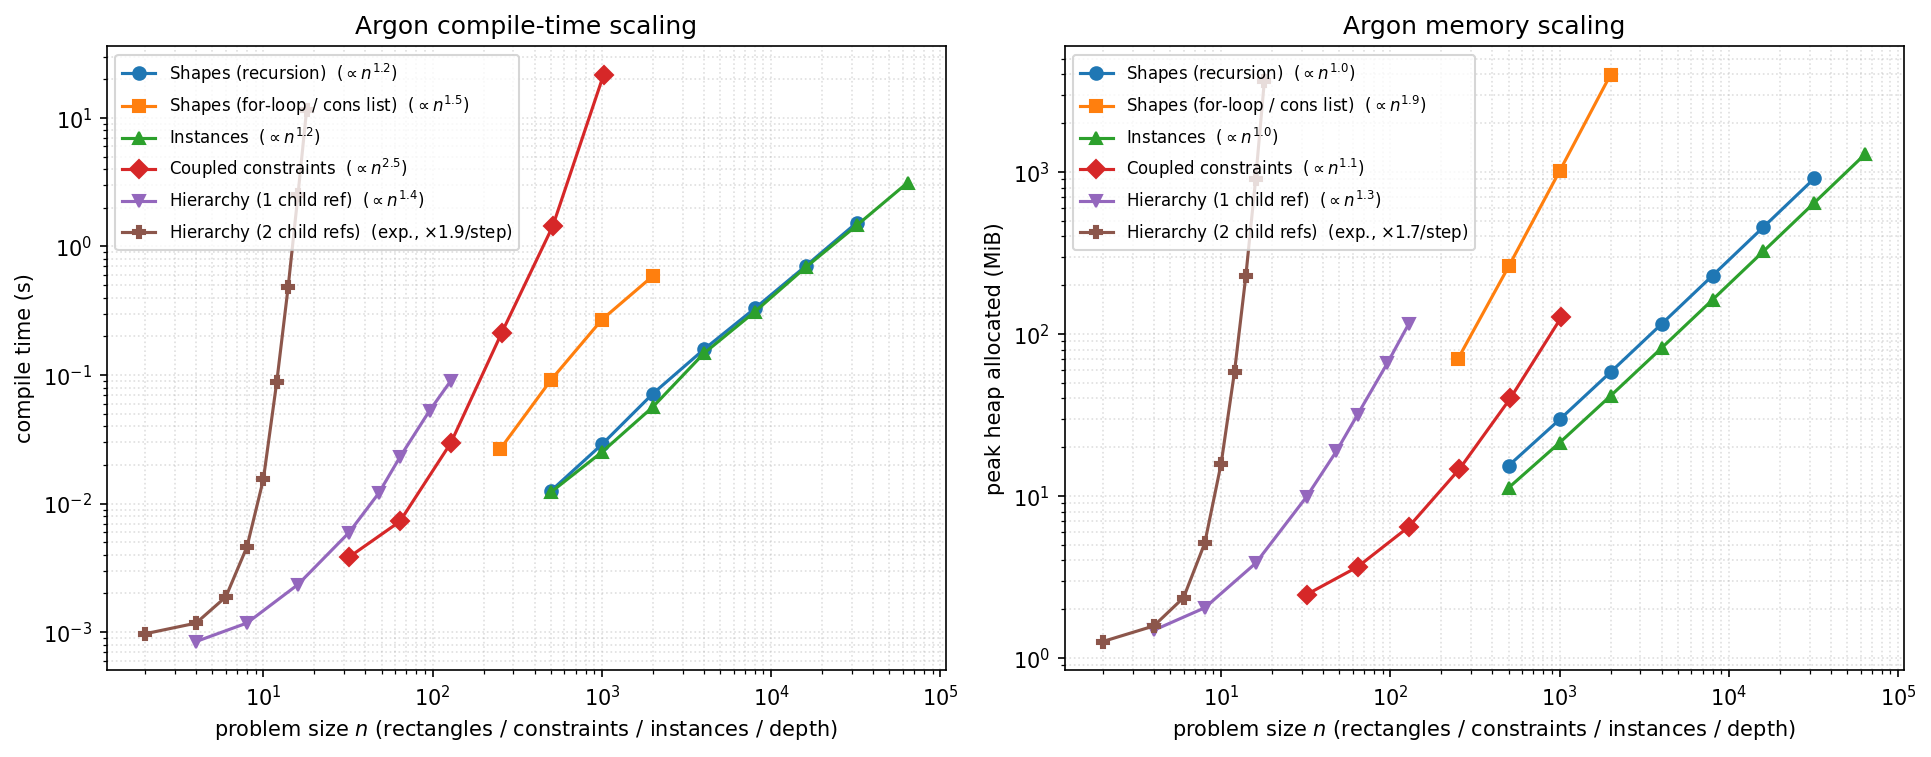
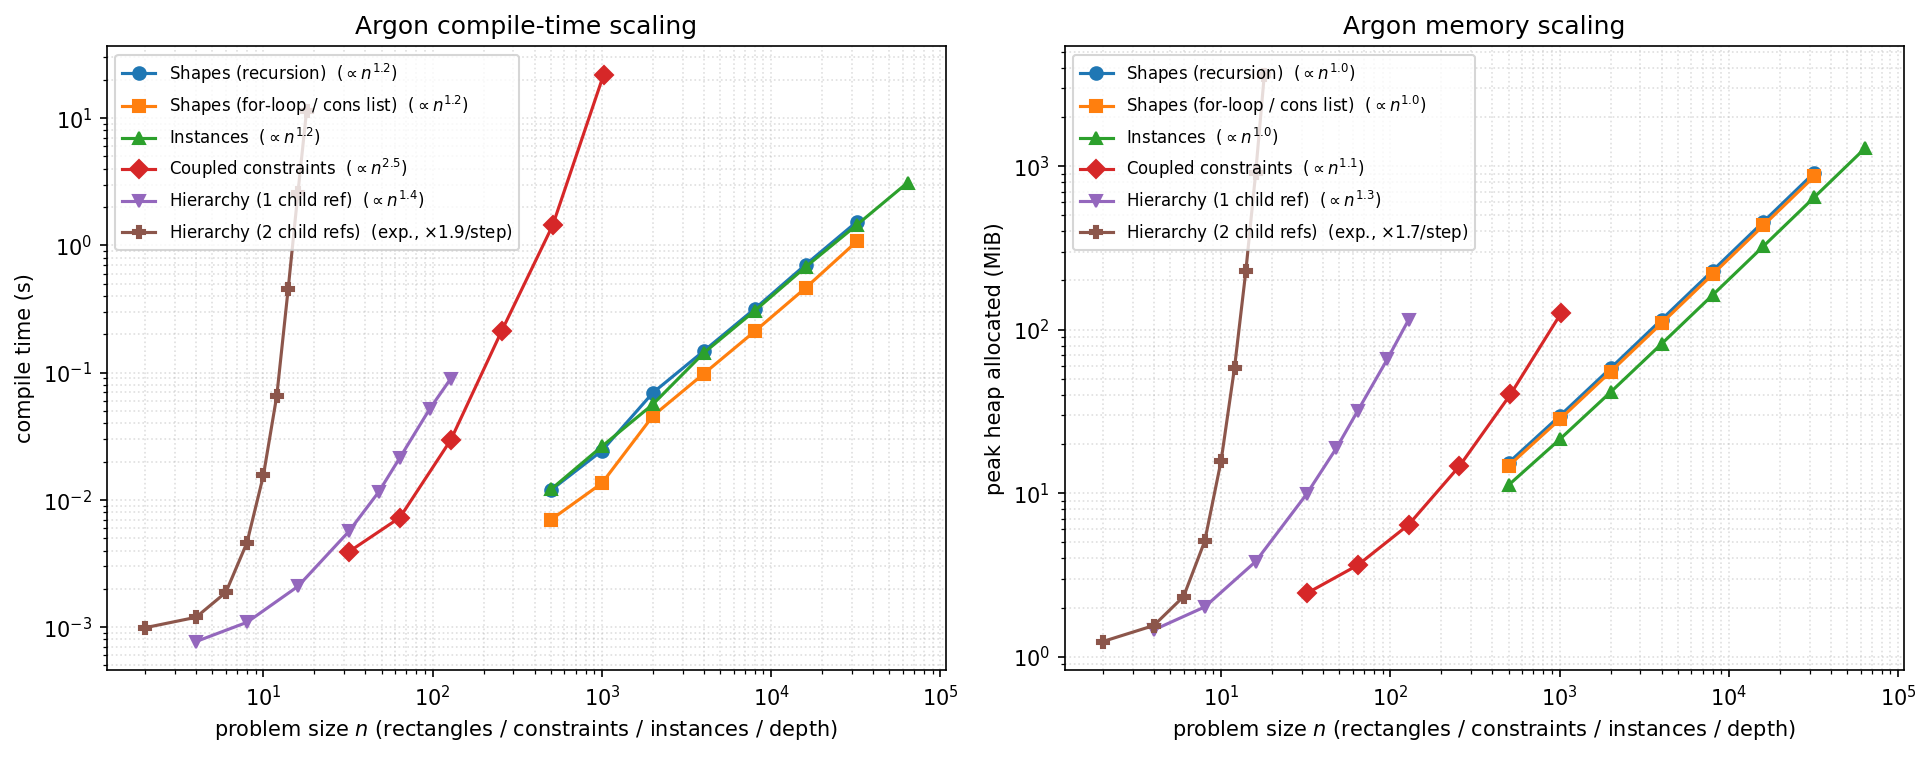
rerun benches

diff --git a/core/compiler/src/lib.rs b/core/compiler/src/lib.rs
@@ -327,8 +327,9 @@ mod tests {
 
     /// Axis 1b: the same geometry generated with an idiomatic `for` loop over
     /// `std::range`, which additionally exercises Argon's functional list
-    /// representation (`cons`). Capped at a smaller size because list
-    /// construction is super-linear.
+    /// representation. Since sequences are backed by a persistent vector and
+    /// `range` lowers to a native builtin, this path is linear and is swept to
+    /// the same sizes as `bench_shapes` so the two can be compared directly.
     #[test]
     #[ignore = "scaling benchmark; run in release, serially: cargo test -p compiler --release -- --ignored --test-threads=1 bench_"]
     fn bench_shapes_loop() {
@@ -338,13 +339,15 @@ mod tests {
         let ast = o.ast();
         // This variant generates the same geometry as `bench_shapes` but with a
         // `for` loop over `std::range`, so its cost also includes building and
-        // iterating the list. The default sweep is kept smaller than
-        // `bench_shapes` only so the default run stays bounded in memory on the
-        // current build; override `ARGON_BENCH_SHAPES_LOOP` to sweep to the same
-        // sizes as `bench_shapes` (e.g. to compare the two after changes to the
-        // list representation).
+        // iterating the list. That list/`range` path is now linear (persistent-
+        // vector sequences + a native `range` builtin), so it sweeps to the same
+        // sizes as `bench_shapes` and the two series can be compared directly
+        // (override `ARGON_BENCH_SHAPES_LOOP` to change the range).
         let mut rows = Vec::new();
-        for &n in &bench_sizes("ARGON_BENCH_SHAPES_LOOP", &[250, 500, 1000, 2000]) {
+        for &n in &bench_sizes(
+            "ARGON_BENCH_SHAPES_LOOP",
+            &[500, 1000, 2000, 4000, 8000, 16000, 32000],
+        ) {
             let (dt, mem, out) = measure(2, || {
                 compile(
                     &ast,

diff --git a/bench/README.md b/bench/README.md
@@ -65,7 +65,7 @@ how an axis scales — without editing any source. Pass a comma-separated list:
 | Env var | Axis | Default |
 | ------- | ---- | ------- |
 | `ARGON_BENCH_SHAPES`        | shapes (recursion)   | `500,1000,2000,4000,8000,16000,32000` |
-| `ARGON_BENCH_SHAPES_LOOP`   | shapes (`for` loop)  | `250,500,1000,2000` |
+| `ARGON_BENCH_SHAPES_LOOP`   | shapes (`for` loop)  | `500,1000,2000,4000,8000,16000,32000` |
 | `ARGON_BENCH_INSTANCES`     | instances            | `500,…,64000` |
 | `ARGON_BENCH_CONSTRAINTS`   | coupled constraints  | `32,64,128,256,512,1024` |
 | `ARGON_BENCH_HIER_SINGLE`   | hierarchy (1 ref)    | `4,8,16,32,48,64,96,128` |
@@ -104,7 +104,7 @@ parameter; "peak" is peak heap allocated during compilation.
 | Instances                    | 64 000 insts   | 3.14 s  | 1.29 GiB | **~linear** (time `∝ n^1.2`, mem `∝ n^1.0`) |
 | Hierarchy, 1 child ref       | depth 128      | 0.09 s  | 0.12 GiB | **polynomial** (`∝ depth^1.3–1.4`) |
 | Coupled constraints          | 1 024 rects    | 21.7 s  | 0.13 GiB | **super-cubic in time** (see below) |
-| Shapes (`for`-loop)          | 2 000 rects    | 0.59 s  | 4.1 GiB  | **quadratic** (mem `∝ n^2`) |
+| Shapes (`for`-loop)          | 32 000 rects   | 1.07 s  | 0.85 GiB | **~linear** (time `∝ n^1.2`, mem `∝ n^1.0`) |
 | Hierarchy, 2 child refs      | depth 18       | 11.5 s  | 3.6 GiB  | **exponential** (`×1.9` per level) |
 
 ### Interpretation
@@ -141,15 +141,19 @@ parameter; "peak" is peak heap allocated during compilation.
   capped). Very deep hierarchies additionally hit a native-recursion stack
   limit in the compiler at a few hundred levels.
 
-- **Recursion vs. iteration measures the list/iteration machinery.** `shapes`
-  and `shapes_loop` emit identical geometry; the only difference is that
-  `shapes_loop` builds and iterates a `std::range` list. On the build measured
-  here that list path is markedly heavier (≈4 GiB to emit 2 000 rectangles via
-  a `for` loop, vs. 32 000 by recursion in under 1 GiB), so the gap between the
-  two series is a direct measure of the cost of the list representation rather
-  than of the geometry or solver. Re-running both series (e.g. with
-  `ARGON_BENCH_SHAPES_LOOP` set to the same sizes as `bench_shapes`) is the way
-  to see that cost change as the iteration/list machinery is optimized.
+- **Recursion and iteration now scale identically.** `shapes` and `shapes_loop`
+  emit identical geometry; the only difference is that `shapes_loop` builds and
+  iterates a `std::range` list. That list path used to be quadratic — emitting
+  just 2 000 rectangles through a `for` loop cost ≈4 GiB (against 32 000 by
+  recursion in under 1 GiB), because `range` was built by repeated `cons` onto a
+  `Vec` (an O(n) clone-and-prepend per element). Backing sequences with a
+  persistent vector and lowering `range` to a native builtin made `cons`
+  O(log n) and `range` O(n); the two series now coincide, both linear in time
+  and memory out to 32 000 rectangles (`shapes_loop`: 1.07 s / 0.85 GiB;
+  `shapes`: 1.53 s / 0.89 GiB). The idiomatic `for i in std::range(n)` loop is
+  no longer a scaling hazard. The gap between the two series is now a small
+  constant — `shapes_loop` is even marginally faster, as the native `range`
+  avoids the per-element recursion overhead of `emit_shapes`.
 
 The takeaways for the paper: editable-object count and instance count scale
 linearly; the practically-relevant limits are the dense general constraint